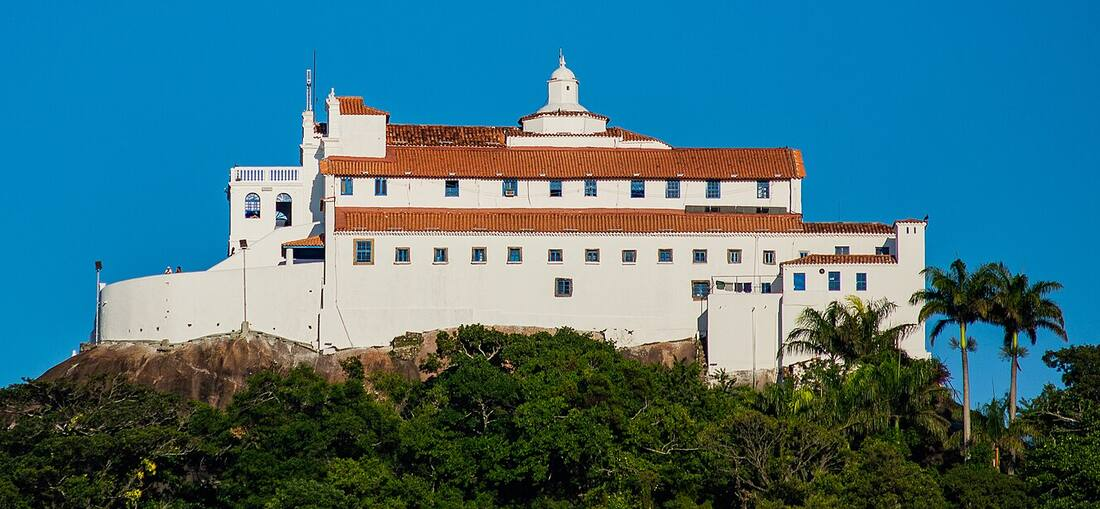
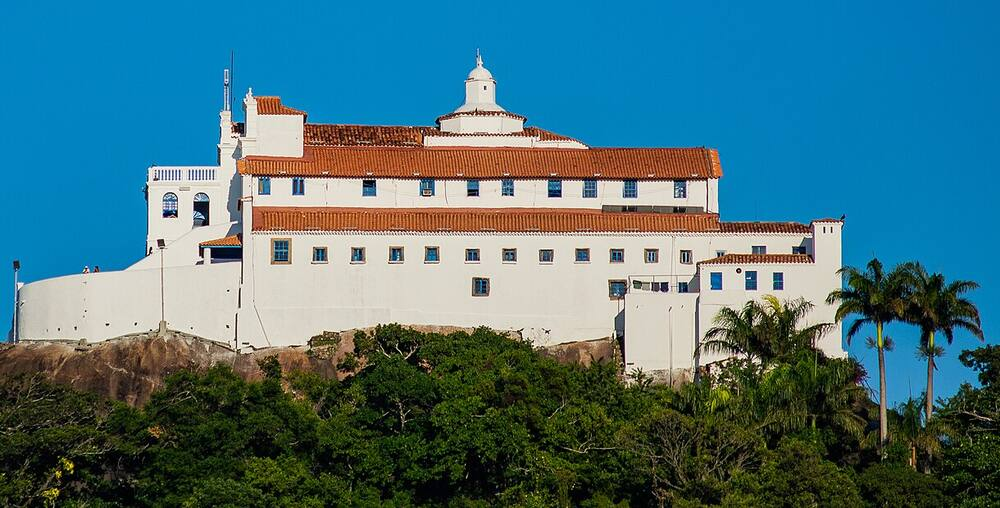
Topo mais alto no computador, com o Convento maior à direita até a borda

diff --git a/css/estilo.css b/css/estilo.css
@@ -867,7 +867,7 @@ h3 { font-size: 1rem; margin: 22px 0 10px; color: var(--titulo); }
   .vitrine {
     position: relative;
     overflow: hidden;
-    padding: 56px var(--margem) 64px;
+    padding: 110px var(--margem) 120px;     /* topo mais alto, para a foto aparecer maior */
     background: var(--azul);
   }
   .vitrine::after {
@@ -876,14 +876,15 @@ h3 { font-size: 1rem; margin: 22px 0 10px; color: var(--titulo); }
     margin: 0;
     position: absolute;
     top: 0;
-    right: max(0px, calc(var(--margem) - 170px)); /* um pouco além do fim do menu */
+    right: 0;                               /* vai até a borda direita da tela */
     bottom: 0;
-    aspect-ratio: 1100 / 509;               /* proporção da foto */
-    background: linear-gradient(rgba(30, 58, 95, 0.35), rgba(30, 58, 95, 0.35)),
+    aspect-ratio: 1000 / 508;               /* proporção da foto */
+    /* o céu da foto escurece até o azul do app no alto, sem linha */
+    background: linear-gradient(rgb(30, 58, 95) 0%, rgba(30, 58, 95, 0.5) 30%, rgba(30, 58, 95, 0.25) 70%),
                 url("../img/convento-da-penha.jpg") center / cover;
-    /* some aos poucos na esquerda e, quando há espaço, também na direita */
-    -webkit-mask-image: linear-gradient(90deg, transparent, #000 45%, #000 88%, transparent);
-    mask-image: linear-gradient(90deg, transparent, #000 45%, #000 88%, transparent);
+    /* e some aos poucos para a esquerda, deixando azul livre perto da busca */
+    -webkit-mask-image: linear-gradient(90deg, transparent, #000 35%);
+    mask-image: linear-gradient(90deg, transparent, #000 35%);
   }
   .vitrine > * { position: relative; z-index: 1; }
   .vitrine > * { max-width: 640px; margin-left: 0; }

diff --git a/sw.js b/sw.js
@@ -12,7 +12,7 @@
    Sem isso, quem já abriu o app continua vendo a versão antiga.
    ========================================================= */
 
-const VERSAO = "conectaes-v30";
+const VERSAO = "conectaes-v31";
 
 const ARQUIVOS = [
   "./",

diff --git a/CREDITOS.md b/CREDITOS.md
@@ -54,8 +54,9 @@ licença do original.
 
 `img/convento-da-penha.jpg`: *Vista do Convento da Penha do Morro do Moreno*,
 de Aandradevix, CC BY-SA 4.0
-([original](https://commons.wikimedia.org/wiki/File:Vista_do_Convento_da_Penha_do_Morro_do_Moreno.jpg)). Recortada em volta do Convento, reduzida
-para 1100 pixels de largura e coberta por uma camada azul no app. Segue sob a mesma licença.
+([original](https://commons.wikimedia.org/wiki/File:Vista_do_Convento_da_Penha_do_Morro_do_Moreno.jpg)). Recortada do Convento até a borda direita
+da foto, reduzida para 1000 pixels de largura e coberta por uma
+camada azul no app. Segue sob a mesma licença.
 
 # Ícones
 
